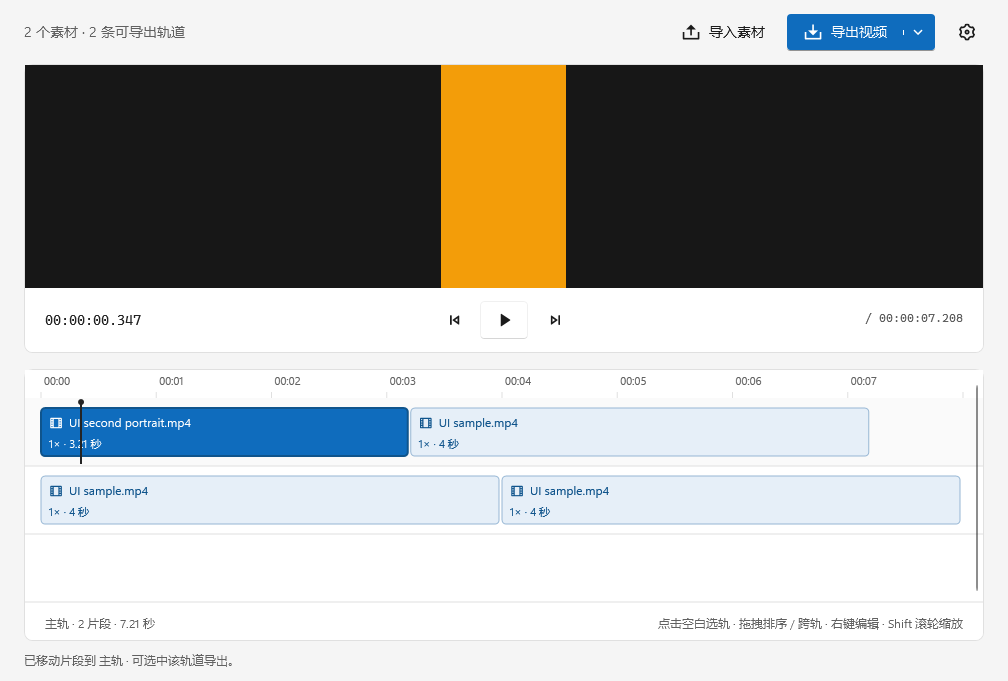
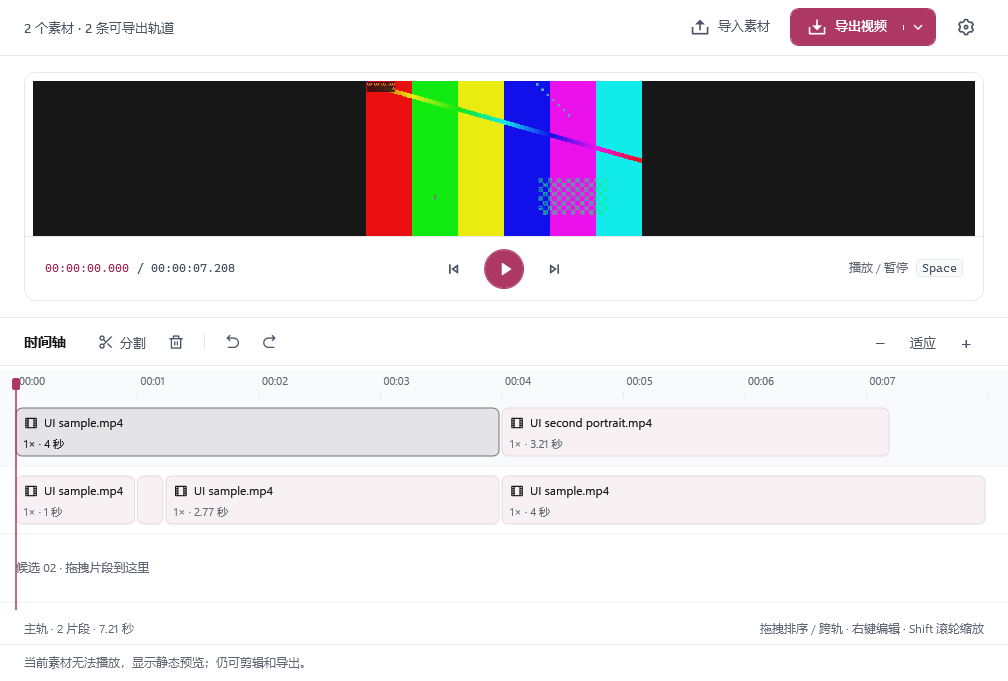
docs: add dark-mode screenshot preview
Use theme-aware README imagery to improve the interface preview in dark and light modes.

diff --git a/README.md b/README.md
@@ -11,7 +11,11 @@
 
 ## 界面预览
 
-![Clip 多素材、多轨道剪辑界面](docs/images/screenshot.png)
+<!-- 实际窗口截图：Windows CI run 35489159014，提交 244cf8a。 -->
+<picture>
+  <source media="(prefers-color-scheme: dark)" srcset="docs/images/screenshot-dark.png" />
+  <img src="docs/images/screenshot.png" alt="Clip 多素材、多轨道剪辑界面" />
+</picture>
 
 ## 功能
 
